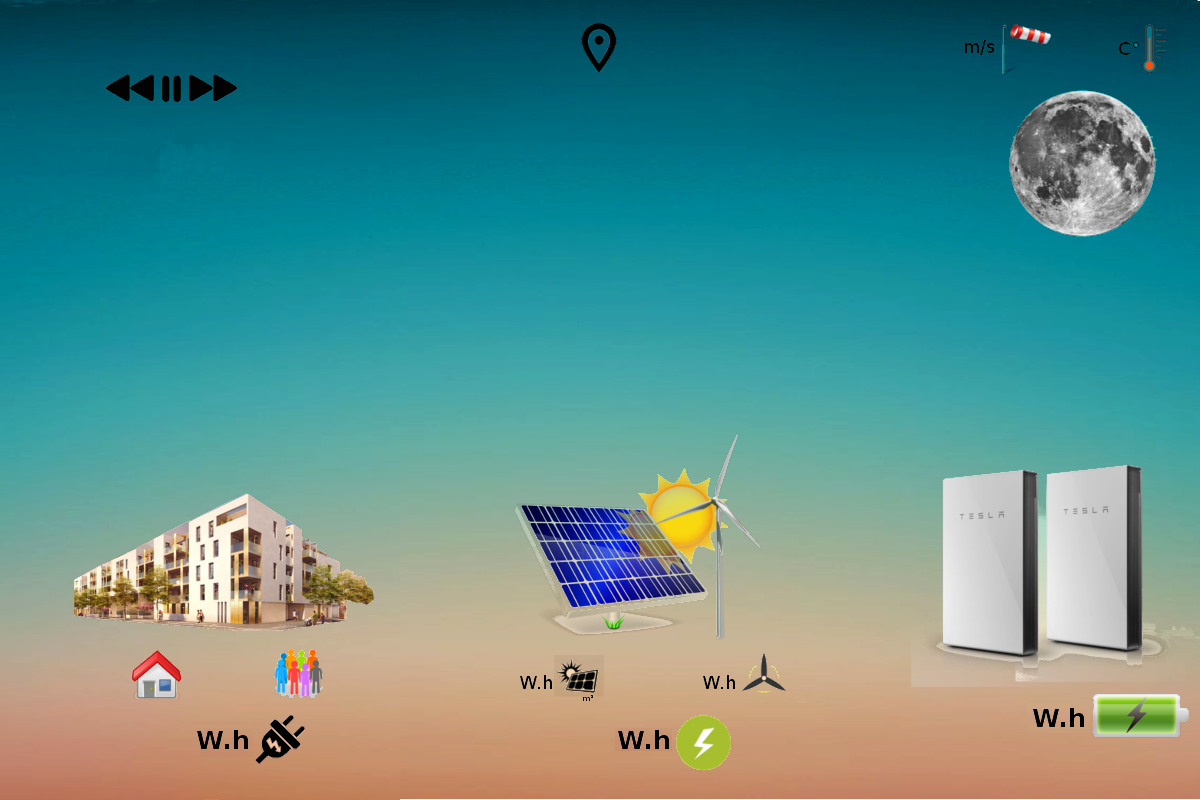
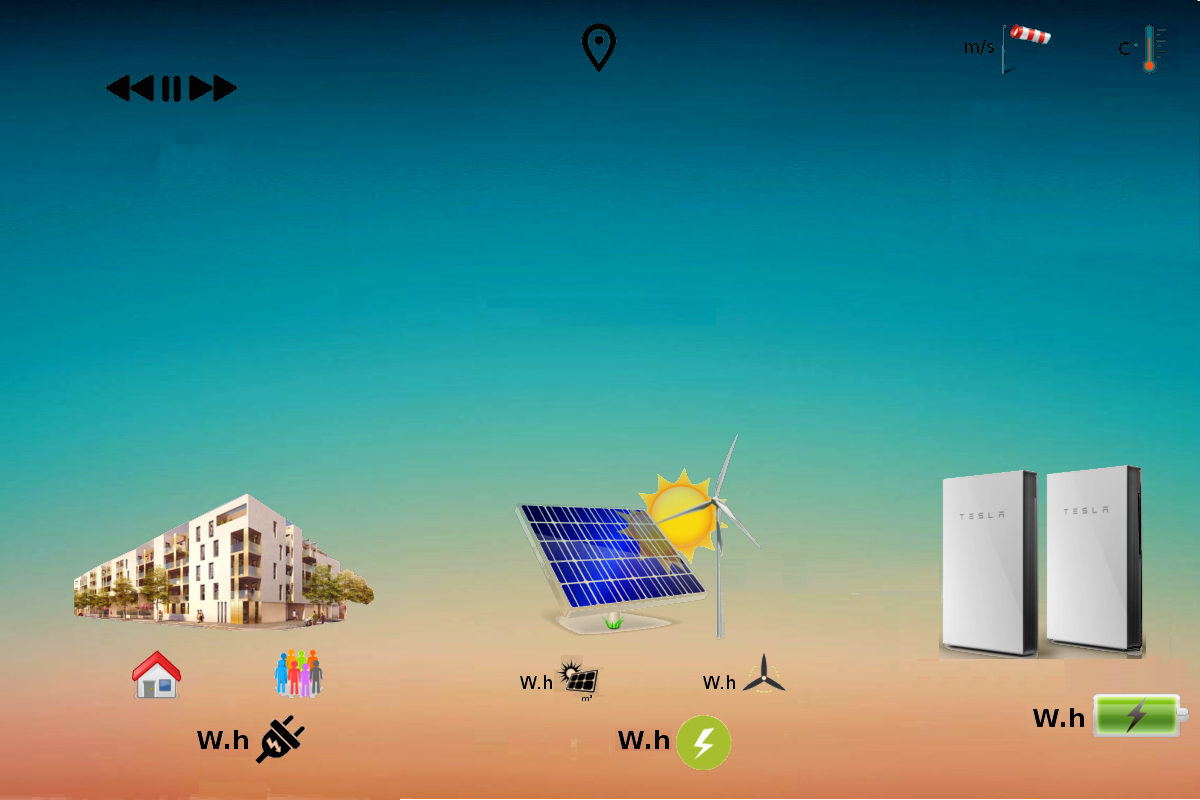
Wakamoon

diff --git a/Tomaro_v2/Affichage.py b/Tomaro_v2/Affichage.py
@@ -11,7 +11,7 @@ from random import randrange,sample,randint
 def centrer_texte(image,pos_x_image,pos_y_image,texte):
 	return (pos_x_image+image.get_size()[0]/2-texte.get_size()[0]/2,pos_y_image+image.get_size()[1]/2-texte.get_size()[1]/2)
 
-def menu(fenetre,nom_site,date,degre,vent,localisation,nb_foyer,nb_personne,consommation_totale,production_eo,production_pv,production_totale,stockage,stockage_pourcent,is_nuit,nb_eo,surface_pv):	
+def menu(fenetre,nom_site,date,degre,vent,localisation,nb_foyer,nb_personne,consommation_totale,production_eo,production_pv,production_totale,stockage,stockage_pourcent,is_nuit,nb_eo,surface_pv,temps_jour,temps_nuit,minute_journee,minute_leve,minute_couche):	
 	#S'il fait jour
 	if(is_nuit==False):
 		background = pygame.image.load("Image/Background_menu_jour.png").convert()
@@ -19,6 +19,33 @@ def menu(fenetre,nom_site,date,degre,vent,localisation,nb_foyer,nb_personne,cons
 		background = pygame.image.load("Image/Background_menu_nuit.png").convert()
 	fenetre.blit(background,(0,0))
 
+	#Soleil et lune	
+	pas_temps=1000
+	soleil = pygame.image.load("Image/Soleil.png").convert_alpha()
+	lune = pygame.image.load("Image/Lune.png").convert_alpha()
+	if is_nuit==False:
+		for i in range(0,pas_temps):
+			if minute_journee>=minute_leve+i*temps_jour/pas_temps and minute_journee<=minute_leve+(i+1)*temps_jour/pas_temps:
+				if i<pas_temps/2:
+					fenetre.blit(soleil,(1.2*i-100,350-0.5*i))
+				else:
+					fenetre.blit(soleil,(1.2*i-100,350-0.5*(pas_temps-1-i)))
+				break
+
+	elif is_nuit==True:
+		for i in range(0,pas_temps):
+			if minute_journee<minute_leve:
+				minute_journee=minute_journee+1440
+			if minute_journee>=minute_couche+i*temps_nuit/pas_temps and minute_journee<=minute_couche+(i+1)*temps_nuit/pas_temps:
+				if i<pas_temps/2:
+					fenetre.blit(lune,(1.2*i-50,400-0.6*i))
+				else:
+					fenetre.blit(lune,(1.2*i-50,400-0.6*(pas_temps-1-i)))
+				break
+
+	calque_batterie=pygame.image.load("Image/Bout_batterie.png").convert_alpha()
+	fenetre.blit(calque_batterie,(1046,465))
+	
 	#Nom du site
 	font=pygame.font.Font(None, 60)	
 	nom_site=font.render(nom_site,1,(0,0,0)) #Mettre nom_site

diff --git a/Tomaro_v2/deroulement.py b/Tomaro_v2/deroulement.py
@@ -26,9 +26,9 @@ def nuit(minute_journee, jour_mois, mois, annee, decalage_horaire, coords):
 	couche_soleil = int((sun.getSunsetTime( coords, jour_mois, mois, annee )['decimal'] + decalage_horaire)*60)
 
 	if(minute_journee > couche_soleil or minute_journee < leve_soleil):
-		return True
+		return (True,leve_soleil,couche_soleil)
 	else :
-		return False
+		return (False,leve_soleil,couche_soleil)
 
 #Renvoie la plage la plus proche en fonction des minutes
 def plage_proche(minute,plage):
@@ -111,7 +111,7 @@ while(continu):
 	#---------- Gestion du temps ----------#	
 	
 	#Savoir s'il fait nuit ou pas
-	is_nuit = nuit(minute_journee, jour_mois, mois, annee, decalage_horaire, coords)
+	is_nuit = nuit(minute_journee, jour_mois, mois, annee, decalage_horaire, coords)[0]
 	if(pause!=True):
 		minute_journee = minute_journee + 1
 
@@ -282,10 +282,14 @@ while(continu):
 		stockage_val=int(round(min(stockage_max,max(0,stockage_val))))	
 		stockage=str(stockage_val)
 		stockage_pourcent=str(stockage_val*100/stockage_max)+"%"
+		temps_jour=nuit(minute_journee, jour_mois, mois, annee, decalage_horaire, coords)[2]-nuit(minute_journee, jour_mois, mois, annee, decalage_horaire, coords)[1]
+		temps_nuit=1440-temps_jour
+		minute_leve=nuit(minute_journee, jour_mois, mois, annee, decalage_horaire, coords)[1]
+		minute_couche=nuit(minute_journee, jour_mois, mois, annee, decalage_horaire, coords)[2]
 
 		#Si on est dans l'état menu
 		if(etat_affichage=="menu"):		
-			menu(fenetre,nom_site,date,degre,vent,localisation,nb_foyer,nb_personne,consommation_totale,production_eo,production_pv,production_totale,stockage,stockage_pourcent,is_nuit,nb_eo,surface_pv)
+			menu(fenetre,nom_site,date,degre,vent,localisation,nb_foyer,nb_personne,consommation_totale,production_eo,production_pv,production_totale,stockage,stockage_pourcent,is_nuit,nb_eo,surface_pv,temps_jour,temps_nuit,minute_journee,minute_leve,minute_couche)
 
 		elif(etat_affichage=="liste_foyer"):
 			affichage_liste_foyer(fenetre,site_alpha,date,is_nuit)

diff --git a/Tomaro_v2/Foyer.py b/Tomaro_v2/Foyer.py
@@ -184,7 +184,7 @@ class Foyer:
 				nouvel_individu.chauffage = True
 
 			self.liste_personne.append(nouvel_individu)
-			liste_image_personne_deja_presente.append(nouvel_individu.image)
+			liste_image_personne_deja_presente.append(nouvel_individu.num_image)
 
 
 if __name__=='__main__':
